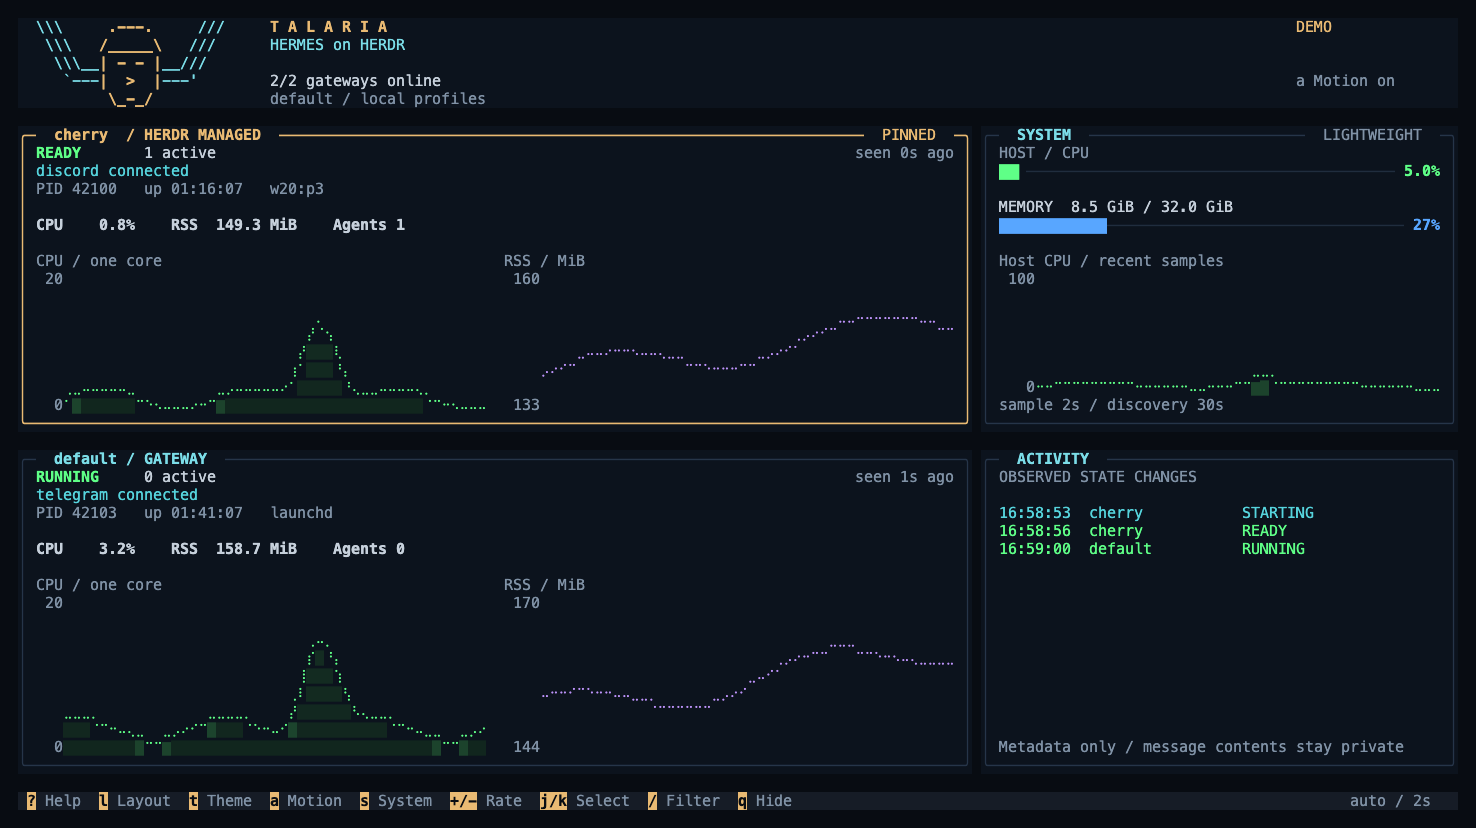
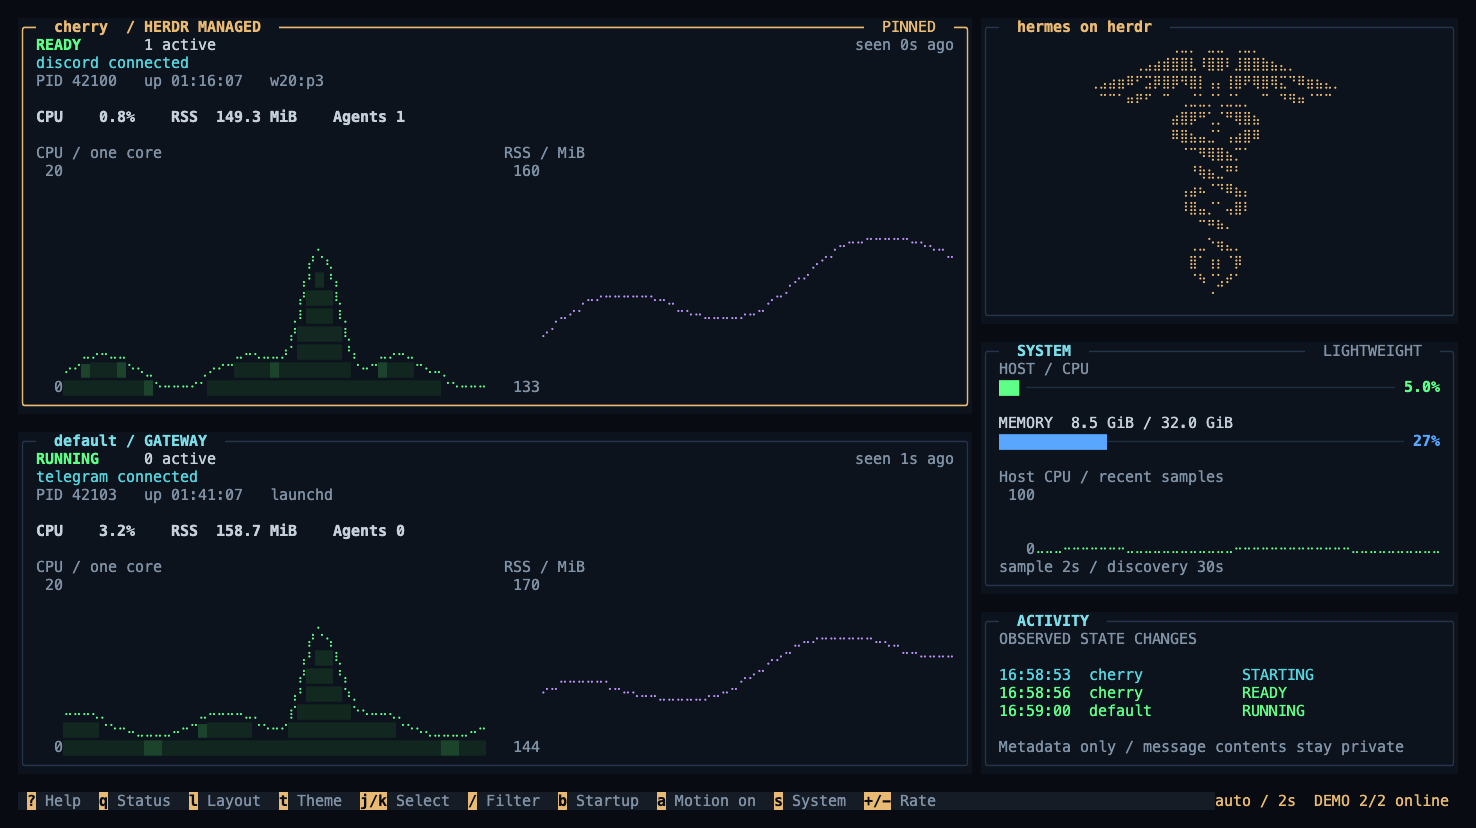
docs: document opt-in startup and refreshed Hermes dashboard evidence

diff --git a/docs/README.en.md b/docs/README.en.md
@@ -1,7 +1,7 @@
 <p align="center">
-  <img src="../assets/brand/icon-rounded.png" width="128" alt="Hermes Gateway for Herdr logo" />
+  <img src="../assets/brand/icon-rounded.png" width="128" alt="hermes on herdr logo" />
 </p>
-<h1 align="center">Hermes Gateway for Herdr</h1>
+<h1 align="center">hermes on herdr</h1>
 <p align="center">Supervise a dedicated Hermes Gateway inside a real Herdr pane, with explicit run intent and process ownership.</p>
 <p align="center"><a href="../README.md">简体中文</a></p>
 
@@ -9,11 +9,11 @@
 
 This Herdr plugin implementation aims to ensure that one dedicated Hermes Gateway runs inside its owning Herdr pane. The Gateway inherits the actual `HERDR_SOCKET_PATH`, `HERDR_WORKSPACE_ID`, `HERDR_TAB_ID` and `HERDR_PANE_ID`, so it can act as a control agent for that session.
 
-**Current status: the core and hqtui dashboard are implemented; 142 offline tests pass.** The Talaria dashboard includes an ASCII Hermes wing animation, adapts to small and large profile collections, pins the Herdr-managed profile and provides adjustable layouts, themes, an animation toggle and bounded sampling. See [previews, controls and resource measurements](14-hqtui监控面板.md).
+**Current status: the core, startup status page and optional hqtui dashboard are implemented; 153 offline tests pass.** The plugin first shows its managed Gateway status. Press Enter to open monitoring; “Always open on startup” is unchecked by default and can be saved with Space or a mouse click. The full dashboard places the Hermes caduceus above SYSTEM, adapts to small and large profile collections and pins the Herdr-managed profile. Layouts, themes, animation and sampling frequency are adjustable. See [previews, controls and resource measurements](14-hqtui监控面板.md).
 
 Cherry previously reached READY under plugin supervision, and the user confirmed message connectivity. The native LaunchAgent remains removed. A standalone dashboard has been previewed in an adjacent Herdr pane with cherry and default online. Herdr and cherry were not stopped or restarted. Embedded activation, cold-start, shutdown and explicit pane interaction checks still require confirmation before live validation; see the [cherry record](13-cherry接入与验证.md).
 
-![Two-profile hqtui dashboard with offline demo data](evidence/dashboard-two.png)
+![Optional two-profile hqtui dashboard with offline demo data](evidence/dashboard-two.png)
 
 ## Features
 
@@ -34,7 +34,7 @@ The current delivery includes the core implementation and a development manifest
 The launcher help requires no configuration and does not connect to Herdr or Hermes:
 
 ```sh
-./bin/hermes-gateway-herdr --help
+./bin/hermes-on-herdr --help
 ```
 
 Use Python 3.11 or newer from the configured Hermes virtual environment, with the dependencies in [requirements.txt](../requirements.txt). The launcher first uses OS Python to validate the private interpreter hint, then starts the selected venv Python in isolated mode. The configuration directory must have mode `0700`; `config.json` and `runtime-python` must have mode `0600`. The interpreter hint contains one absolute path matching `python_bin`.
@@ -42,9 +42,9 @@ Use Python 3.11 or newer from the configured Hermes virtual environment, with th
 After preparing a reviewed, separate configuration, these commands read status or show a binding plan. Replace the placeholder path with that configuration:
 
 ```sh
-./bin/hermes-gateway-herdr --config /absolute/config.json status --json
-./bin/hermes-gateway-herdr --config /absolute/config.json doctor --json
-./bin/hermes-gateway-herdr --config /absolute/config.json bind --dry-run
+./bin/hermes-on-herdr --config /absolute/config.json status --json
+./bin/hermes-on-herdr --config /absolute/config.json doctor --json
+./bin/hermes-on-herdr --config /absolute/config.json bind --dry-run
 ```
 
 | Command | Behavior |
@@ -58,6 +58,7 @@ After preparing a reviewed, separate configuration, these commands read status o
 | `status --require-ready` | Succeed only for verified READY; this does not prove model or bot-message operation |
 | `logs --lines 50` | Read structured lifecycle events without exporting raw child output |
 | `dashboard` | Open a standalone read-only monitor; print one frame outside a TTY |
+| `dashboard --startup` | Show startup status and offer monitoring, respecting the saved auto-open choice |
 | `dashboard --snapshot` / `dashboard --json` | Print one text or JSON monitoring snapshot |
 | `dashboard --demo-profiles 2` | Preview synthetic data without sampling real profiles |
 
@@ -73,7 +74,7 @@ Run isolated tests with the configured Hermes venv Python:
 
 Tests use temporary directories, fake Herdr RPC and controlled Python Gateway fixtures. They do not import Hermes main or invoke installed Herdr/Hermes entry points. Scenarios cover concurrent creation, lost responses, process exits, pause races, PID reuse, background-process cleanup and log backpressure.
 
-The [142-test output](evidence/dashboard-unittest.txt) includes bounded multi-profile sampling, animation and sampling isolation, cached frame invalidation, real PTY input and renderer failure isolation. The [dashboard record](14-hqtui监控面板.md) includes reproducible resource measurements. The initial [84-test run](evidence/offline-unittest.txt) and [90-test cherry integration run](13-cherry接入与验证.md) remain available as historical evidence. Linux and live handoff remain unverified.
+The [153-test output](evidence/dashboard-unittest.txt) includes bounded multi-profile sampling, animation and sampling isolation, cached frame invalidation, persistent startup opt-in and opt-out across processes, atomic state replacement races, real PTY input and renderer failure isolation. The [dashboard record](14-hqtui监控面板.md) includes reproducible resource measurements. The initial [84-test run](evidence/offline-unittest.txt) and [90-test cherry integration run](13-cherry接入与验证.md) remain available as historical evidence. Linux and live handoff remain unverified.
 
 ## Stack
 
@@ -151,3 +152,5 @@ The first version targets host macOS/Linux, one user, one machine and one explic
 The repository follows the observed `<thing>-herdr` naming pattern. Its development manifest uses ID `nocoo.hermes-gateway` and pane entry `gateway`; these identifiers do not need to match the repository name.
 
 Next, complete the cold-start, shutdown-cleanup and explicit pane interaction checks in the [cherry acceptance record](13-cherry接入与验证.md), then review the [P0 validation checklist](05-实现步骤.md). Further service stops performed by the agent require user confirmation. Configuration templates are in [examples](../examples/README.md).
+
+The brand is **hermes on herdr** and the repository is [`nocoo/hermes-on-herdr`](https://github.com/nocoo/hermes-on-herdr). The canonical launcher is `bin/hermes-on-herdr`; `bin/hermes-gateway-herdr` remains a compatibility alias. Existing installations retain the `nocoo.hermes-gateway` plugin ID and `gateway` entrypoint.

diff --git a/docs/02-系统架构.md b/docs/02-系统架构.md
@@ -13,7 +13,7 @@ flowchart TB
     C -->|"workspace.create / plugin.pane.open"| H
     H --> P["专用 workspace 中的 plugin tab / pane<br/>真实 HERDR_* / PTY"]
     P --> S["supervisor：lifetime lock<br/>child wait / backoff / control socket"]
-    S -->|"同 SID 的 foreground child"| G["Hermes Gateway<br/>-p herdr-control + external-supervisor"]
+    S -->|"同 SID 的 foreground child"| G["hermes on herdr<br/>-p herdr-control + external-supervisor"]
     C <-->|"本插件 socket / 原子状态"| S
     S <-->|"gateway.sock identify / status"| G
     G --> A["专用平台 token / 模型凭据"]
@@ -46,48 +46,48 @@ owner_key = SHA256(uid + canonical_owner_socket_path + canonical_profile_home)
 
 Herdr plugin config/state 根不按 session 分区，且可随 XDG 环境移动。[H02](09-源码证据索引.md#h02) 真正的排他锁和 pause 锚定 **canonical Profile** 内固定目录，不能改成按 `HERDR_PLUGIN_STATE_DIR` 或 TMPDIR 分配互不相见的锁。
 
-专用 workspace 默认 label `Hermes Control`，内部一个专用 tab `Hermes Gateway`、一个 argv plugin pane。第一次 `workspace.create --no-focus` 会产生初始 shell；先创建受监管 plugin tab，再核验并关闭本次创建且仍空闲的初始 shell，或保留为操作 pane。不能把初始 shell 当 Gateway，也不能为清爽布局关闭含用户工作的 pane。
+专用 workspace 默认 label `hermes on herdr`，内部一个专用 tab `hermes on herdr`、一个 argv plugin pane。第一次 `workspace.create --no-focus` 会产生初始 shell；先创建受监管 plugin tab，再核验并关闭本次创建且仍空闲的初始 shell，或保留为操作 pane。不能把初始 shell 当 Gateway，也不能为清爽布局关闭含用户工作的 pane。
 
 workspace/tab/pane IDs 存入账本；label/cwd 只用于定位候选。复用需要 owner_key、generation、真实 pane membership、控制 socket 身份共同支持。若已有用户 workspace 恰好同名，不自动占用。跨 session 迁移必须先停旧 owner、确认两个 lifetime 都空闲，再显式修改 binding；不支持自动故障转移到其他 session。
 
 ## 2.3 Manifest 与安装目录契约
 
-拟定 repo：`nocoo/hermes-gateway-herdr`；manifest ID：`nocoo.hermes-gateway`；pane entrypoint：`gateway`。根文件名 `herdr-plugin.toml`，min version 设 `0.9.0`。后续更高 Herdr 版本还需 runtime capability check，min version 不是经过测试的上界。[H01](09-源码证据索引.md#h01)
+repo：`nocoo/hermes-on-herdr`；manifest ID：`nocoo.hermes-gateway`；pane entrypoint：`gateway`。根文件名 `herdr-plugin.toml`，min version 设 `0.9.0`。后续更高 Herdr 版本还需 runtime capability check，min version 不是经过测试的上界。[H01](09-源码证据索引.md#h01)
 
 根目录已有[开发 manifest](../herdr-plugin.toml)，以下仅摘录其结构；尚未安装或经过真实 Herdr 验证：
 
 ```toml
 id = "nocoo.hermes-gateway"
-name = "Hermes Gateway"
+name = "hermes on herdr"
 version = "0.1.0-alpha.0"
 min_herdr_version = "0.9.0"
 platforms = ["macos", "linux"]
 
 [[startup]]
-command = ["./bin/hermes-gateway-herdr", "ensure", "--source", "startup"]
+command = ["./bin/hermes-on-herdr", "ensure", "--source", "startup"]
 
 [[events]]
 on = "workspace.focused"
-command = ["./bin/hermes-gateway-herdr", "ensure", "--source", "event"]
+command = ["./bin/hermes-on-herdr", "ensure", "--source", "event"]
 
 [[events]]
 on = "pane.exited"
-command = ["./bin/hermes-gateway-herdr", "ensure", "--source", "event"]
+command = ["./bin/hermes-on-herdr", "ensure", "--source", "event"]
 
 [[events]]
 on = "pane.closed"
-command = ["./bin/hermes-gateway-herdr", "ensure", "--source", "event"]
+command = ["./bin/hermes-on-herdr", "ensure", "--source", "event"]
 
 [[panes]]
 id = "gateway"
-title = "Hermes Gateway"
+title = "hermes on herdr"
 placement = "tab"
-command = ["./bin/hermes-gateway-herdr", "supervise"]
+command = ["./bin/hermes-on-herdr", "supervise"]
 
 [[actions]]
 id = "pause"
-title = "Hermes Gateway: pause"
-command = ["./bin/hermes-gateway-herdr", "pause"]
+title = "hermes on herdr: pause"
+command = ["./bin/hermes-on-herdr", "pause"]
 ```
 
 当前也注册了 start/resume/stop/restart/status/logs/doctor，全部进入同一个 dispatcher。只有一个 startup entry。hook argv 的入口相对 plugin root 解析；pane cwd 显式为 plugin root，launcher 再使用绝对模块路径。[H03/H04](09-源码证据索引.md#h03) launcher 使用 `/usr/bin/python3 -IS` 做纯标准库路径校验，再 exec 配置中的 Python 3.11+，保留 venv 路径并启用 `-I -B`。

diff --git a/docs/12-离线实现与验证.md b/docs/12-离线实现与验证.md
@@ -12,7 +12,7 @@
 | [lifecycle.py](../src/hermes_gateway_herdr/lifecycle.py)、[supervisor.py](../src/hermes_gateway_herdr/supervisor.py) | 单child、75重启、失败退避/持久熔断、clean0暂停、Stop/Resume竞态、SIGUSR1、TERM→KILL、已确认后代清理 |
 | [event_log.py](../src/hermes_gateway_herdr/event_log.py) | 128项非阻塞日志队列、持续排空两条child输出管道、私有轮转、丢弃计数；插件日志总上限55MiB |
 | [controller.py](../src/hermes_gateway_herdr/controller.py) | 唯一ensure、短锁预留、创建请求不盲重放、显式撤销旧generation、账本核验、terminal ID刷新、保留冷恢复shell |
-| [cli.py](../src/hermes_gateway_herdr/cli.py)、[launcher](../bin/hermes-gateway-herdr)、[manifest](../herdr-plugin.toml) | 统一actions/hooks、默认JSON、只读status/doctor/logs、bind计划、显式解释器、唯一startup |
+| [cli.py](../src/hermes_gateway_herdr/cli.py)、[launcher](../bin/hermes-on-herdr)、[manifest](../herdr-plugin.toml) | 统一actions/hooks、默认JSON、只读status/doctor/logs、bind计划、显式解释器、唯一startup |
 
 控制文件锚定 canonical Profile，XDG/TMPDIR变化不会产生第二把单例锁。所有新Gateway均由pane supervisor通过argv创建，stdin为DEVNULL、stdout/stderr为独立管道、保持相同SID，并使用umask=077。插件不删除Hermes锁、不调用 `--replace`、不启动native Hermes service。
 

diff --git a/docs/README.md b/docs/README.md
@@ -1,6 +1,6 @@
 # 设计文档
 
-这套文档包含设计规范、离线实现和真实接入记录。controller、supervisor、开发 manifest、命令入口和 hqtui 监控面板已有代码；135 项离线测试通过。cherry 此前达到 READY，用户已确认消息连通；新面板尚未在运行中的实例启用。冷启动、退出清理及指定 pane 双向交互仍待验证。研究基线见09、11，核心实现见12，cherry 接入见13，面板预览与测量见14。
+这套文档包含设计规范、离线实现和真实接入记录。controller、supervisor、开发 manifest、命令入口和 默认启动状态页和按需打开的 hqtui 监控面板已有代码；153 项离线测试通过。cherry 此前达到 READY，用户已确认消息连通；新面板尚未在运行中的实例启用。冷启动、退出清理及指定 pane 双向交互仍待验证。研究基线见09、11，核心实现见12，cherry 接入见13，面板预览与测量见14。
 
 ## 阅读顺序
 

diff --git a/docs/05-实现步骤.md b/docs/05-实现步骤.md
@@ -11,7 +11,7 @@
 | 文件 | 责任／接口 |
 |---|---|
 | `herdr-plugin.toml` | 唯一startup、限定events、gateway pane和actions |
-| `bin/hermes-gateway-herdr` | 很薄的可执行launcher；只读取可信绝对runtime-python，不source config，不后台fork |
+| `bin/hermes-on-herdr` | 很薄的可执行launcher；只读取可信绝对runtime-python，不source config，不后台fork |
 | `src/hermes_gateway_herdr/cli.py`、`__main__.py` | 统一dispatcher、JSON、只读诊断、绑定计划；supervise的绝对入口 |
 | `src/hermes_gateway_herdr/state.py` | schema、固定inode flock、原子写、intent/pending/fuse |
 | `src/hermes_gateway_herdr/paths.py`、`identity.py` | 私有路径、严格JSON、UID、OS指纹、PID复用、已验证信号 |

diff --git a/docs/04-Hermes专用Profile设计.md b/docs/04-Hermes专用Profile设计.md
@@ -46,7 +46,7 @@ env -i HOME="$HOME" PATH=/usr/bin:/bin:/usr/sbin:/sbin HERMES_HOME="$HGH_STAGING
 ```sh
 HGH_HERMES_BIN="$HOME/.hermes/hermes-agent/venv/bin/hermes"
 HGH_PROFILE_HOME="$HOME/.hermes/profiles/herdr-control"
-HGH_AGENT_CWD="$HOME/workspace/personal/hermes-gateway-herdr"
+HGH_AGENT_CWD="$HOME/workspace/personal/hermes-on-herdr"
 : "${HGH_MODEL_PROVIDER:?设置明确的 provider ID}"
 : "${HGH_MODEL_ID:?设置该 provider 支持的模型 ID}"
 env HERMES_HOME="$HGH_PROFILE_HOME" "$HGH_HERMES_BIN" -p herdr-control config path
